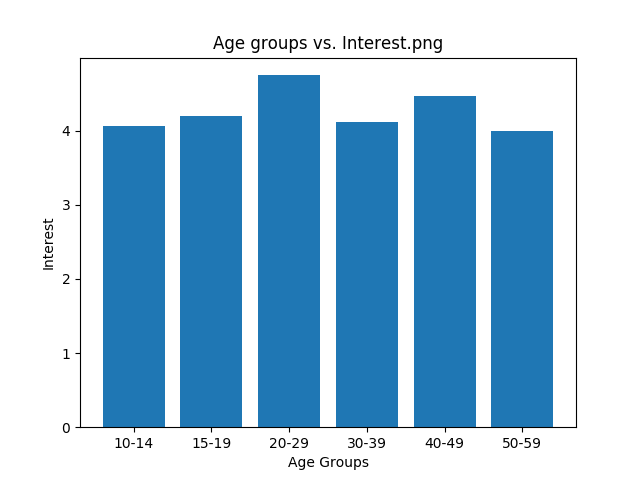
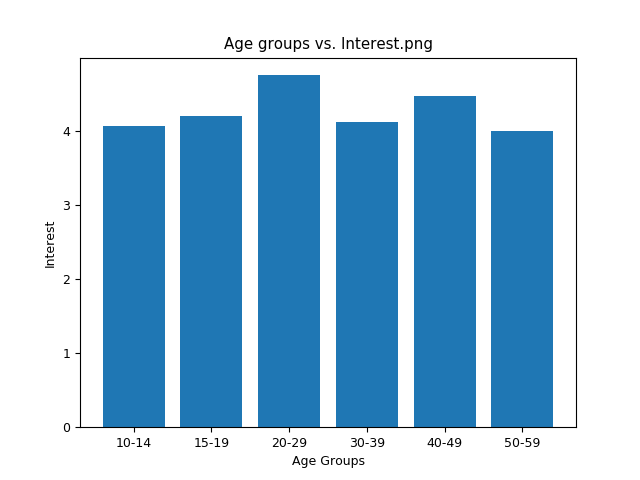
slight rotation to avoid overlap

diff --git a/get-data.py b/get-data.py
@@ -64,8 +64,7 @@ if __name__ == '__main__':
             genre_freq = Counter(map(lambda x: x.title().strip(),group['Favourite Genre']))
             genre_data.append(genre_freq.items())
 
-
-
+    plt.rcParams['font.size'] = 9
     for var, values in data.items():
 
         plt.bar([f'{age_groups[i][0]}-{age_groups[i][1]-1}' for i in range(len(age_groups))], values)
@@ -76,7 +75,7 @@ if __name__ == '__main__':
         plt.close()
     other_threshold=0.02
     for i,j in enumerate(genre_data):
-        plt.figure(figsize=(12, 5.0))
+        plt.figure(figsize=(12, 12))
         plt.title(f'{age_groups[i][0]}-{age_groups[i][1]-1}')
 
         size=len(age_partitions.get_group(i))
@@ -89,7 +88,7 @@ if __name__ == '__main__':
         print(labels)
         print(values)
         fig1, ax1 = plt.subplots()
-        ax1.pie(values,labels=labels,startangle=90,explode=[0.05 for i in range(len(values))])
+        ax1.pie(values,labels=labels,startangle=70,explode=[0.05 for i in range(len(values))],radius=1.3)
         plt.savefig(f'Favourite genre breakdown of {age_groups[i][0]}-{age_groups[i][1]-1} year olds')
         plt.close()
 
